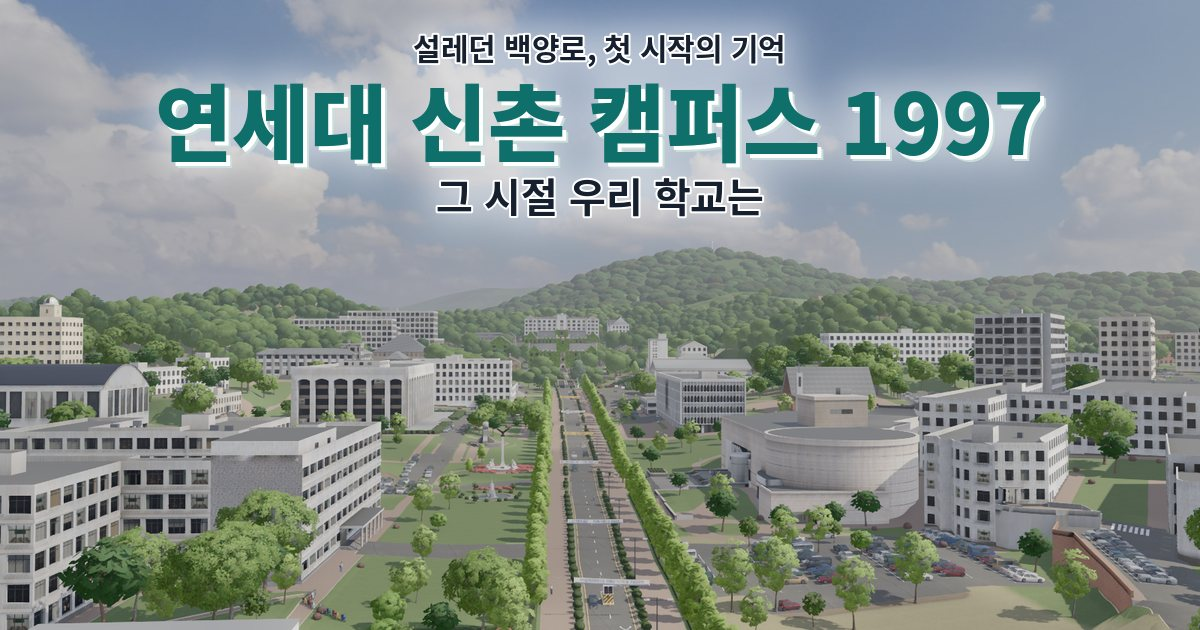
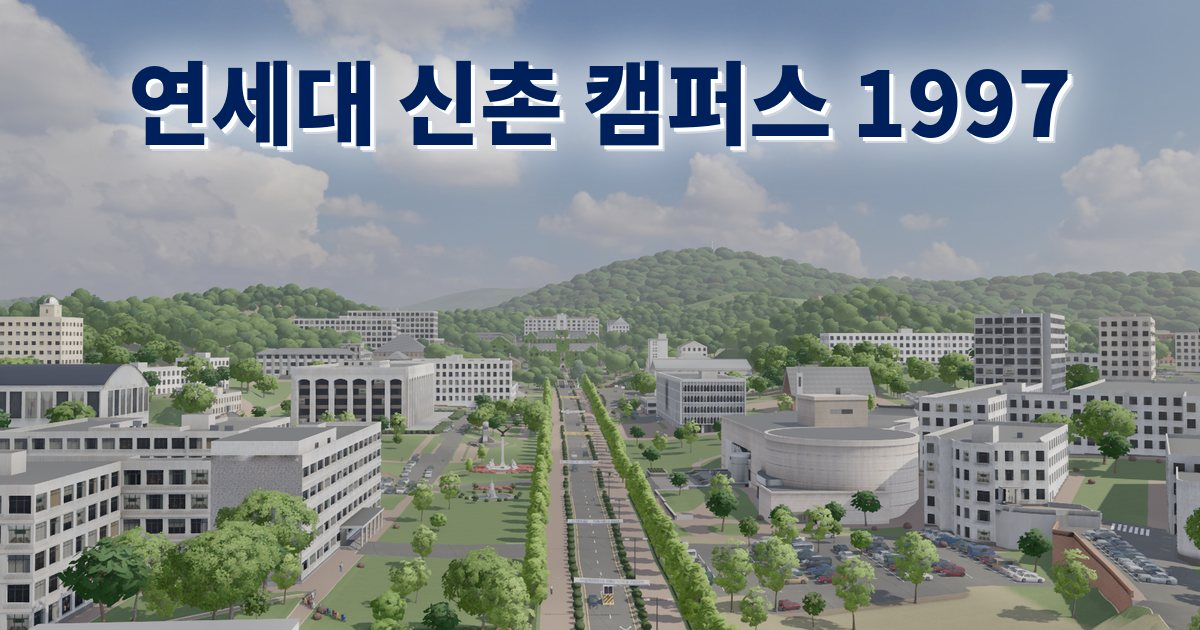
공유 대표 이미지: 제목 한 줄만, 연세 블루로
- 위아래 문구(「설레던 백양로 …」, 「그 시절 우리 학교는」)를 뺌
- 제목 색: 민트 → #00205b(연세 엠블럼 PANTONE 281 C), 조금 더 크게

Changed region(s): [[0.0925, 0.0302, 0.925, 0.3619]]

diff --git a/tools/snapshots_compose.py b/tools/snapshots_compose.py
@@ -32,32 +32,25 @@ CJK = '/usr/share/fonts/opentype/noto/NotoSansCJK-{}.ttc'     # index 1 = KR (fo
 
 
 def title(im, c):
-    """위쪽 가운데 하늘에 제목 화면 같은 글씨를 얹는다: c = {"eyebrow", "title", "sub"} (공유 대표 이미지).
-    제목은 민트색에 흰 그림자(style.css 의 h1), 뒤에 흐린 흰 빛을 깔아 구름 · 파란 하늘 어디서나 읽히게."""
-    from PIL import ImageDraw, ImageFilter, ImageFont
+    """위쪽 가운데 하늘에 제목 한 줄을 얹는다: c = {"text", "color", "size"(폭 1200 기준 px), "top"} (공유 대표 이미지).
+    제목 화면의 h1 처럼 흰 그림자를 두고, 뒤에 흐린 흰 빛을 깔아 구름 · 파란 하늘 어디서나 읽히게."""
+    from PIL import ImageColor, ImageDraw, ImageFilter, ImageFont
     k = im.width / 1200                    # sizes below are for a 1200 px wide image
     px = lambda v: max(1, round(v * k))
-    rows = [(c.get('eyebrow'), 'Bold', 30, '#16202e', 16), (c.get('title'), 'Black', 84, '#0e6f6b', 14),
-            (c.get('sub'), 'Bold', 40, '#16202e', 0)]
-    rows = [(t, ImageFont.truetype(CJK.format(w), px(s), index=1), col, px(gap)) for t, w, s, col, gap in rows if t]
-    y, placed = px(34), []
-    for t, f, col, gap in rows:
-        b = f.getbbox(t)
-        placed.append((t, f, col, ((im.width - (b[2] - b[0])) // 2 - b[0], y - b[1])))
-        y += b[3] - b[1] + gap
+    t, col = c['text'], c.get('color', '#00205b')
+    f = ImageFont.truetype(CJK.format('Black'), px(c.get('size', 90)), index=1)
+    b = f.getbbox(t)
+    xy = ((im.width - (b[2] - b[0])) // 2 - b[0], px(c.get('top', 60)) - b[1])
     glow = Image.new('L', im.size, 0)      # soft white light behind the words
-    gd = ImageDraw.Draw(glow)
-    for t, f, _, xy in placed:
-        gd.text(xy, t, font=f, fill=255, stroke_width=px(10), stroke_fill=255)
-    glow = glow.filter(ImageFilter.GaussianBlur(px(18))).point(lambda v: v * 0.55)
+    ImageDraw.Draw(glow).text(xy, t, font=f, fill=255, stroke_width=px(12), stroke_fill=255)
+    glow = glow.filter(ImageFilter.GaussianBlur(px(20))).point(lambda v: v * 0.55)
     im = Image.composite(Image.new('RGB', im.size, '#ffffff'), im, glow)
     d = ImageDraw.Draw(im)
-    for t, f, col, (x, y) in placed:
-        big = col == '#0e6f6b'
-        if big:                            # h1 { text-shadow: 3px 3px 0 #fff, 5px 5px 0 rgba(14,111,107,.18) }
-            d.text((x + px(6), y + px(6)), t, font=f, fill='#c9dedb')
-            d.text((x + px(4), y + px(4)), t, font=f, fill='#ffffff')
-        d.text((x, y), t, font=f, fill=col, stroke_width=0 if big else px(2), stroke_fill='#ffffff')
+    tint = tuple(round(0.18 * v + 0.82 * 255) for v in ImageColor.getrgb(col))
+    x, y = xy                              # h1 { text-shadow: 3px 3px 0 #fff, 5px 5px 0 <color at 18 %> }
+    d.text((x + px(6), y + px(6)), t, font=f, fill=tint)
+    d.text((x + px(4), y + px(4)), t, font=f, fill='#ffffff')
+    d.text((x, y), t, font=f, fill=col)
     return im
 
 
